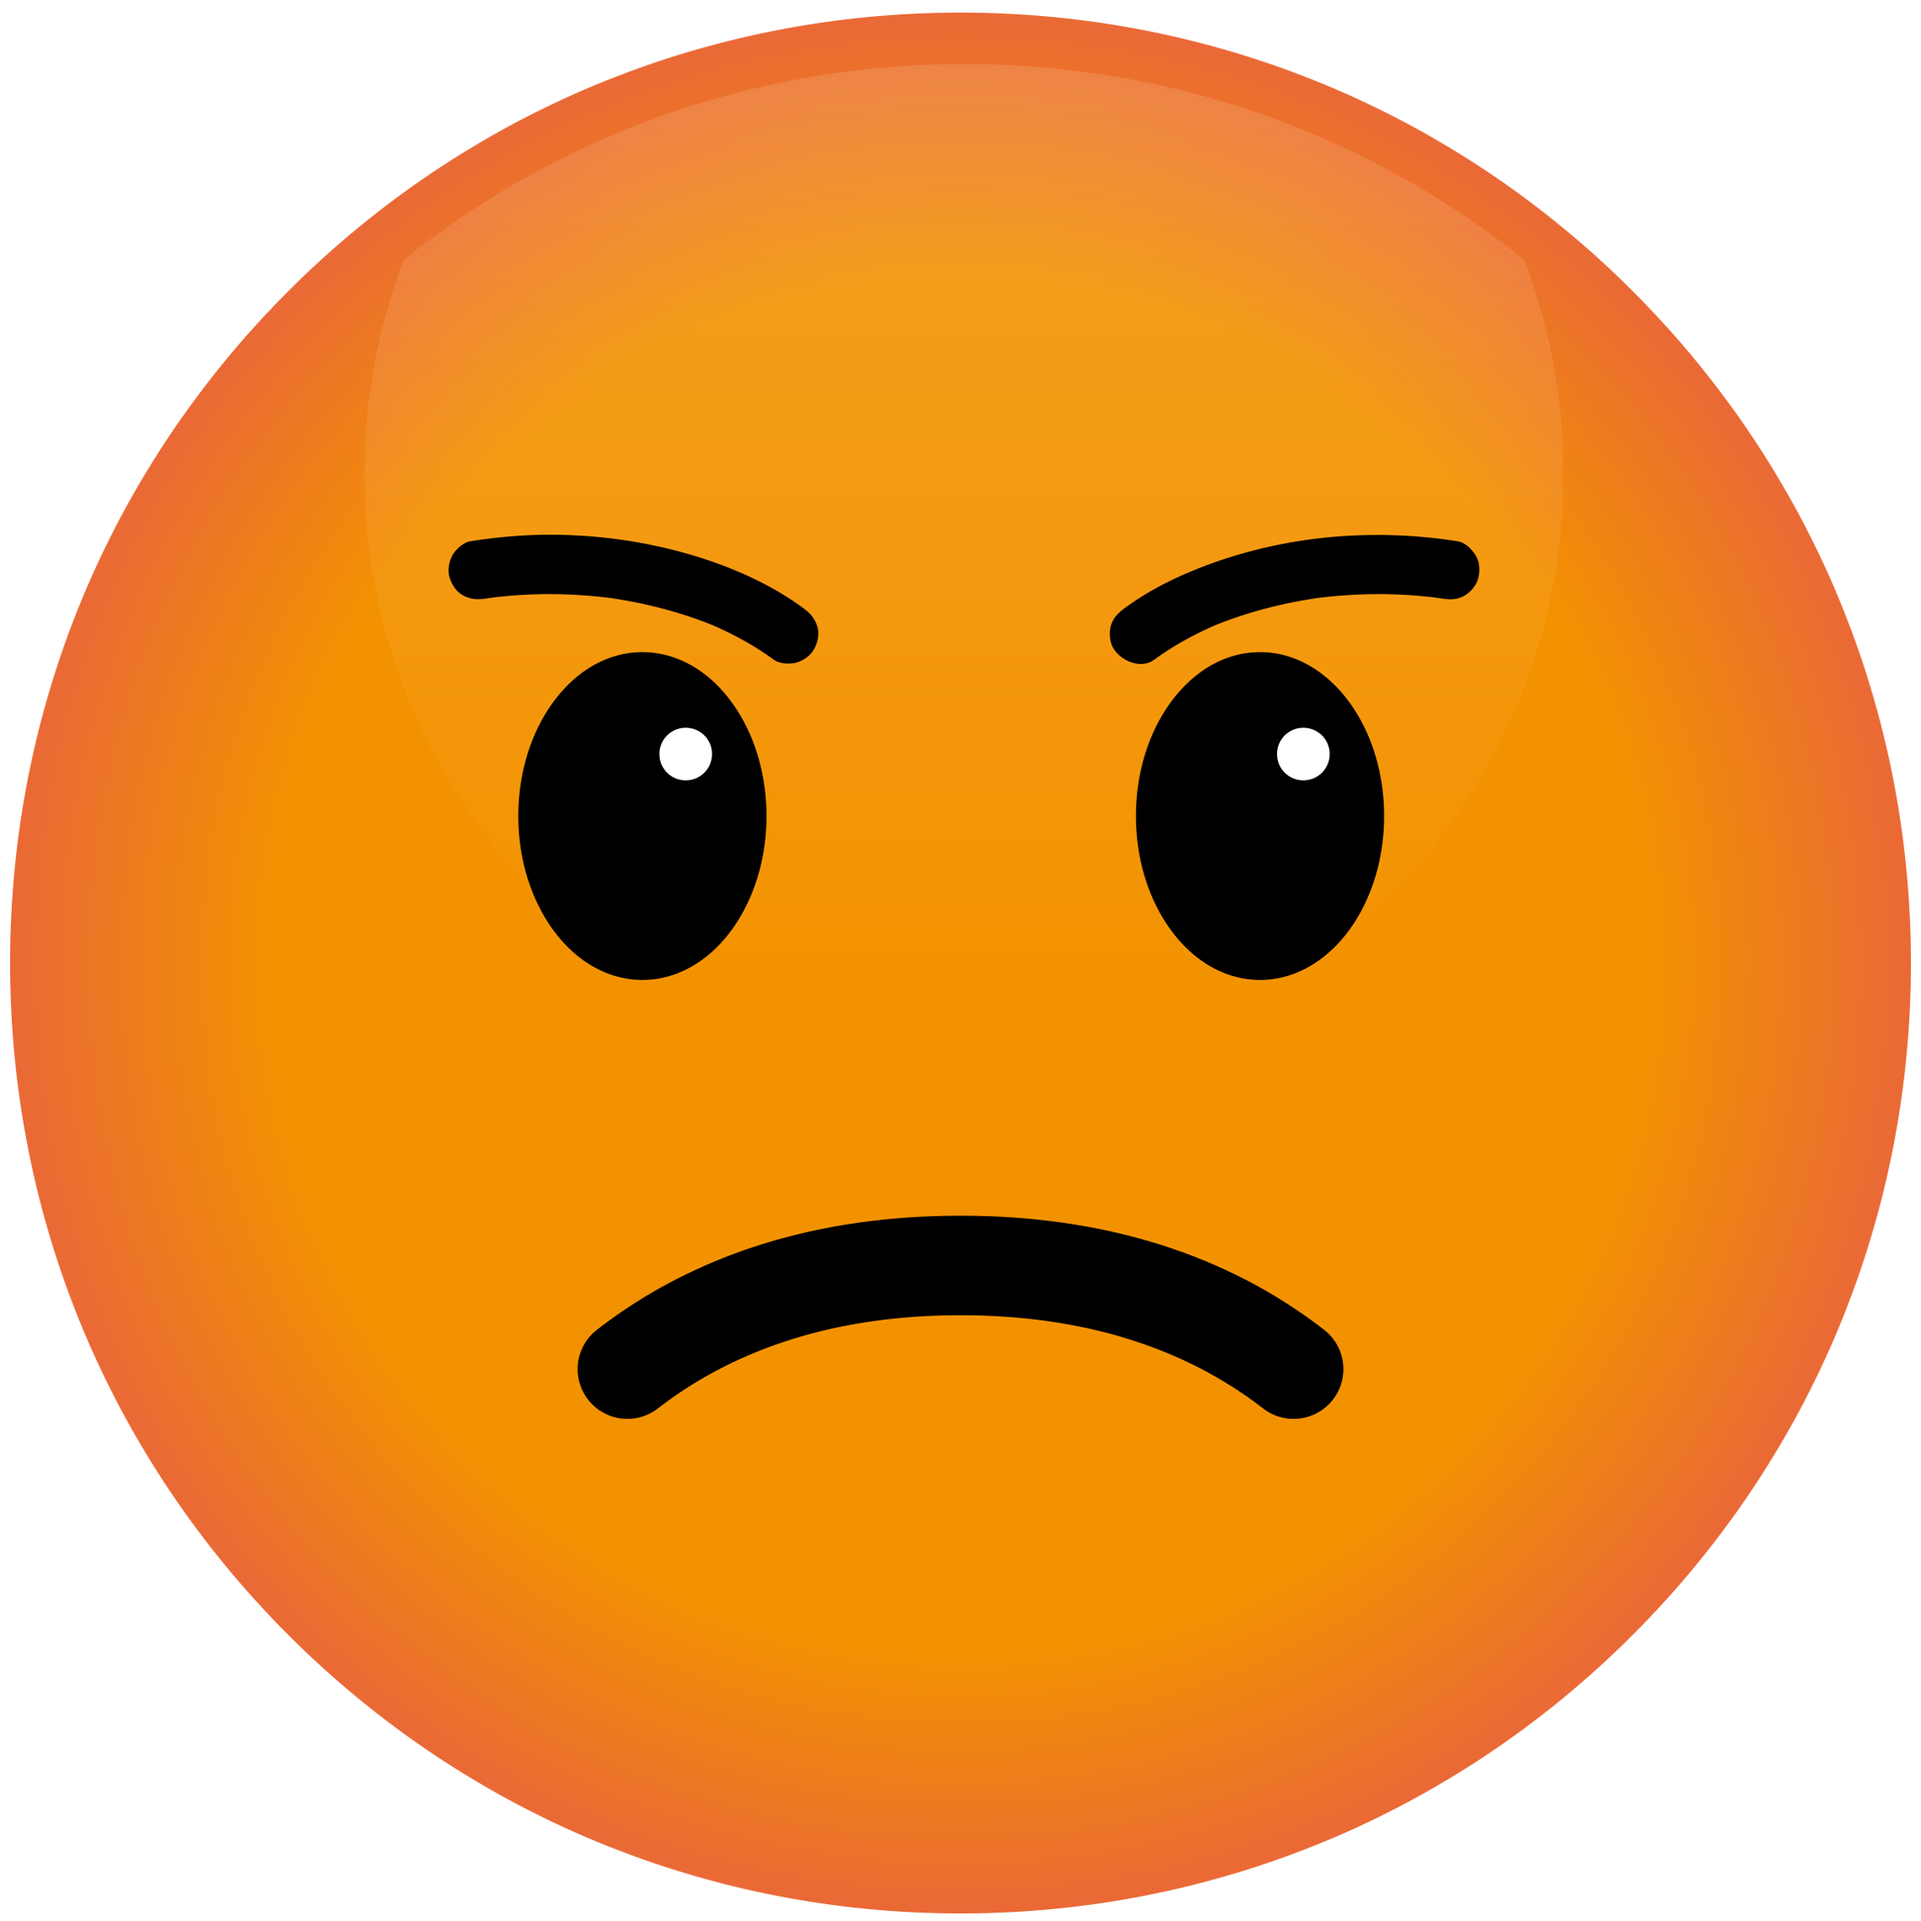
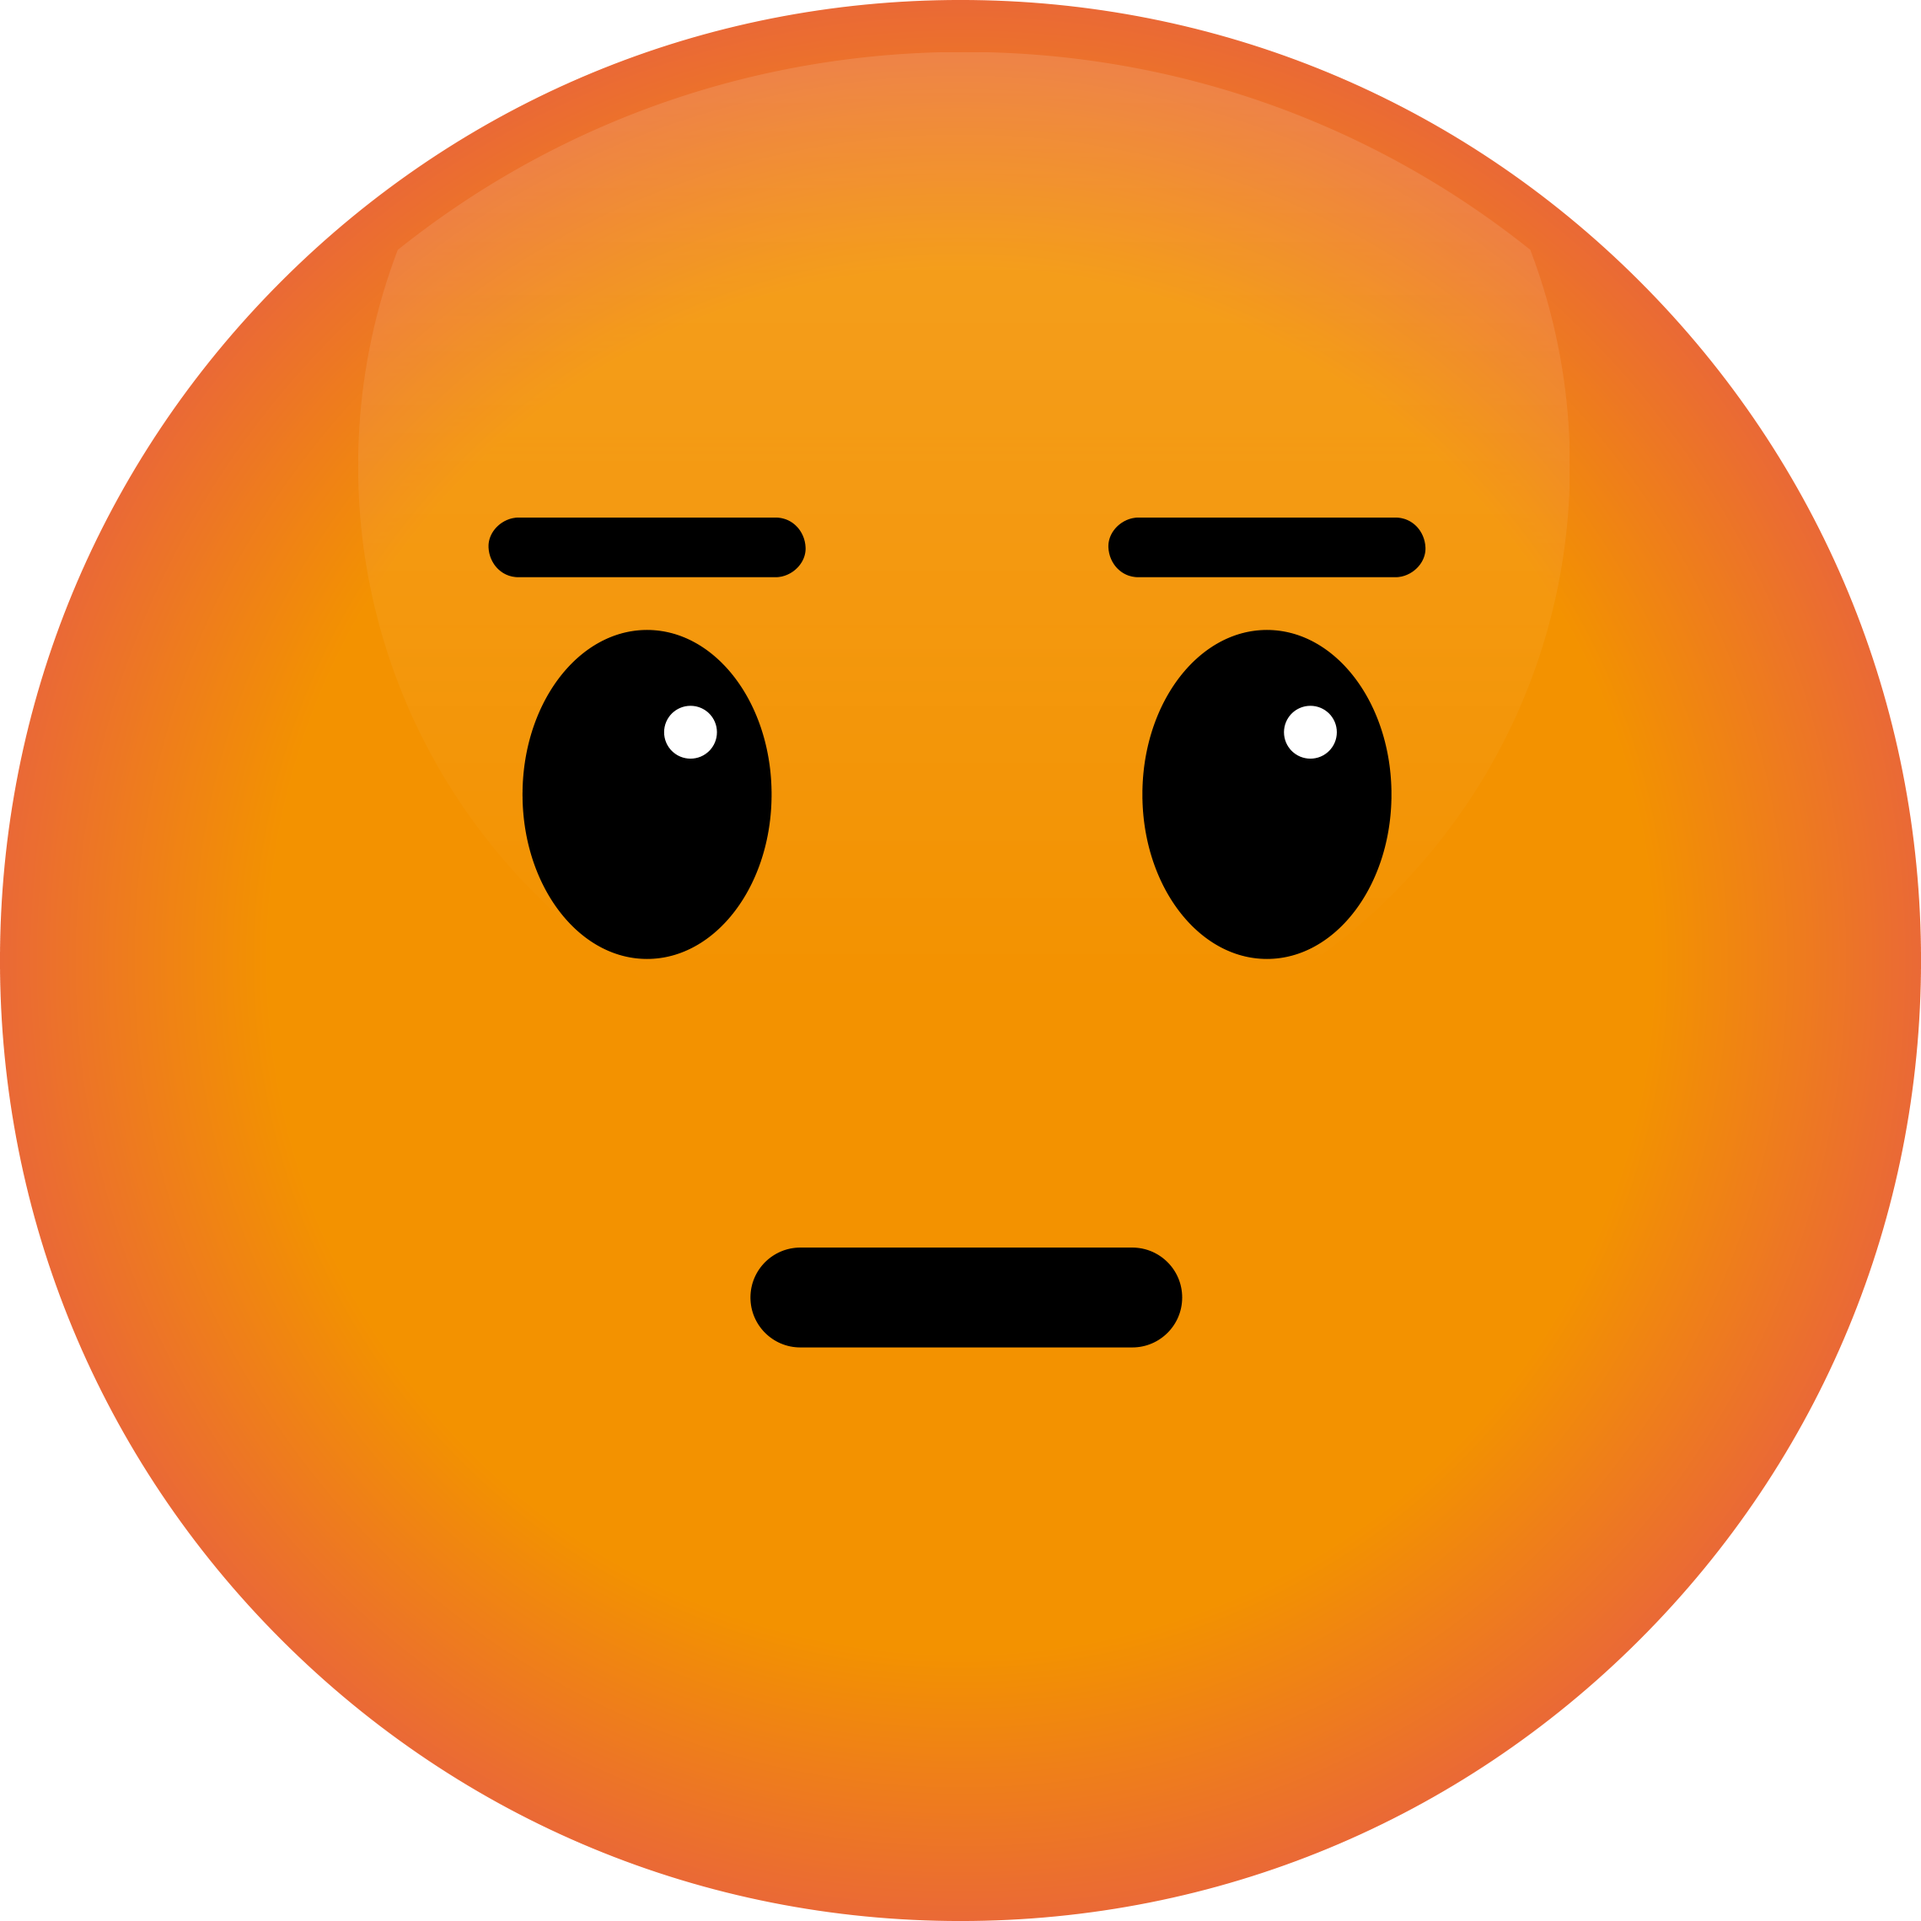
Cambios Caritas

diff --git a/resources/views/livewire/feedback.blade.php b/resources/views/livewire/feedback.blade.php
@@ -24,24 +24,14 @@
                     <p style="margin-top: 10px; font-size: 3.5vw; color: #333;">Malo</p>
                 </div><br>
                 <div style="text-align: center;">
-                    <img src="{{ asset('images/cara-regular.png') }}" alt="Regular" wire:click="seleccionarPuntuacion(2)" 
+                    <img src="{{ asset('images/cara-regular.png') }}" alt="Bueno" wire:click="seleccionarPuntuacion(2)" 
                          style="cursor: pointer; width: 18vw; height: 18vw; max-width: 200px; max-height: 200px;">
                     <p style="margin-top: 10px; font-size: 3.5vw; color: #333;">Regular</p>
                 </div><br>
                 <div style="text-align: center;">
-                    <img src="{{ asset('images/cara-bueno.png') }}" alt="Bueno" wire:click="seleccionarPuntuacion(3)" 
+                    <img src="{{ asset('images/cara-excelente.png') }}" alt="Excelente" wire:click="seleccionarPuntuacion(3)" 
                          style="cursor: pointer; width: 18vw; height: 18vw; max-width: 200px; max-height: 200px;">
                     <p style="margin-top: 10px; font-size: 3.5vw; color: #333;">Bueno</p>
-                </div><br>
-                <div style="text-align: center;">
-                    <img src="{{ asset('images/cara-muy-bueno.png') }}" alt="Muy Bueno" wire:click="seleccionarPuntuacion(4)" 
-                         style="cursor: pointer; width: 18vw; height: 18vw; max-width: 200px; max-height: 200px;">
-                    <p style="margin-top: 10px; font-size: 3.5vw; color: #333;">Muy Bueno</p>
-                </div><br>
-                <div style="text-align: center;">
-                    <img src="{{ asset('images/cara-excelente.png') }}" alt="Excelente" wire:click="seleccionarPuntuacion(5)" 
-                         style="cursor: pointer; width: 18vw; height: 18vw; max-width: 200px; max-height: 200px;">
-                    <p style="margin-top: 10px; font-size: 3.5vw; color: #333;">Excelente</p>
                 </div><br>
             </div>
             
